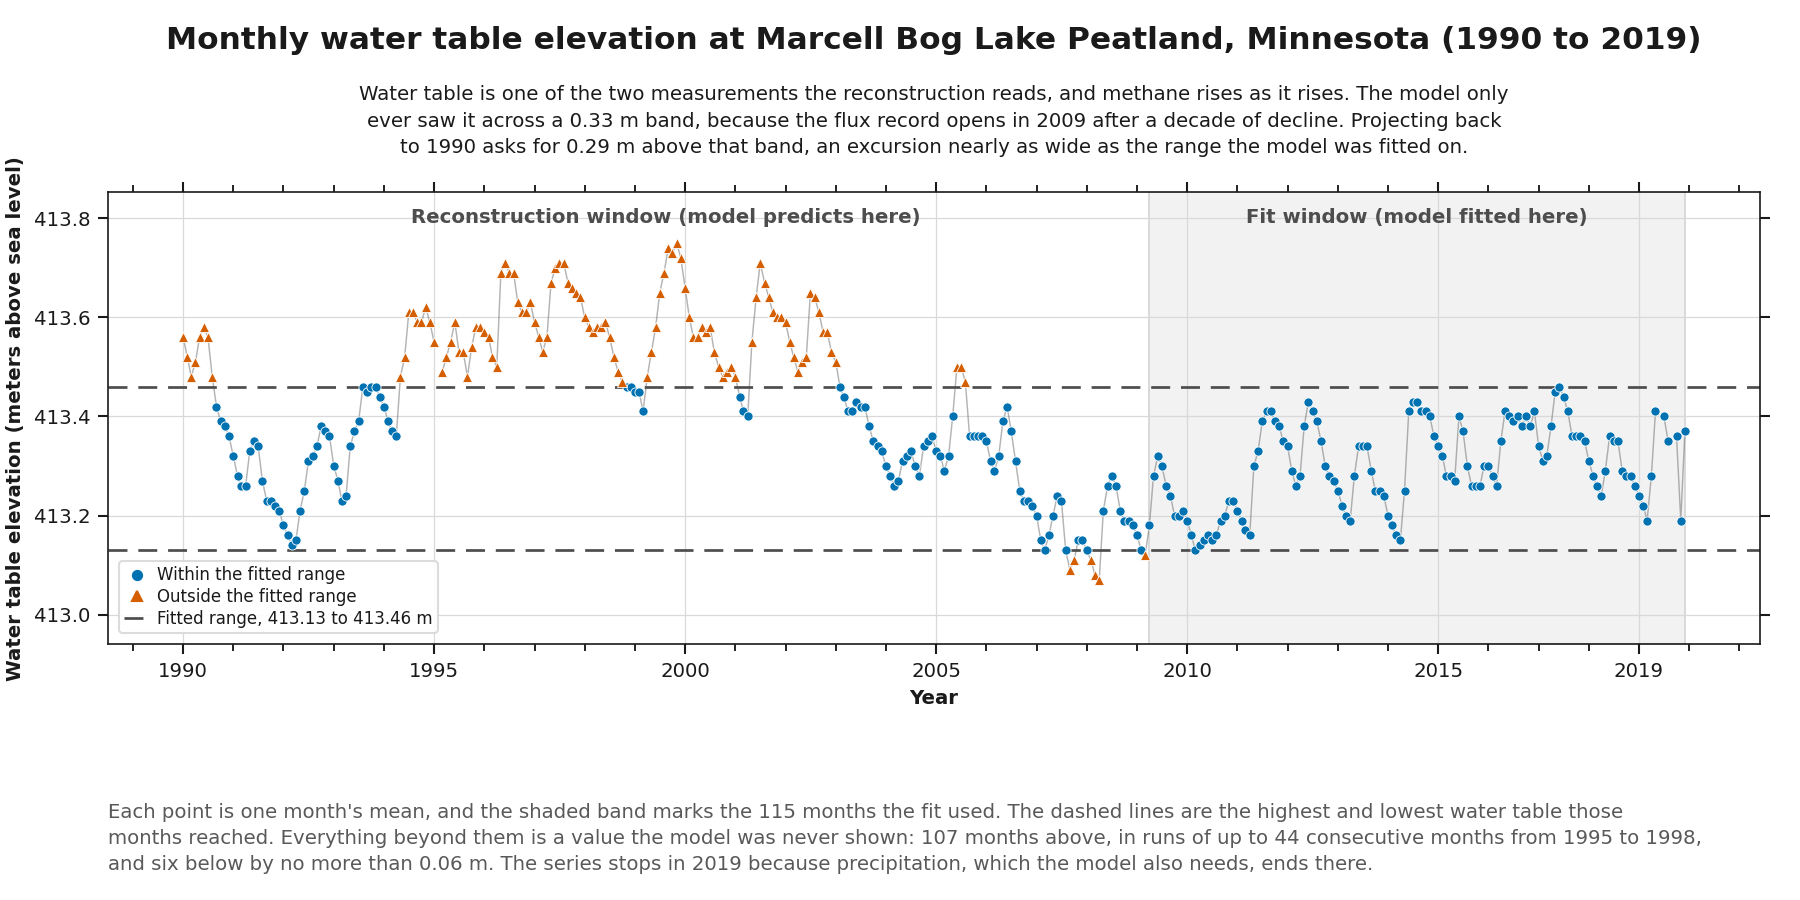
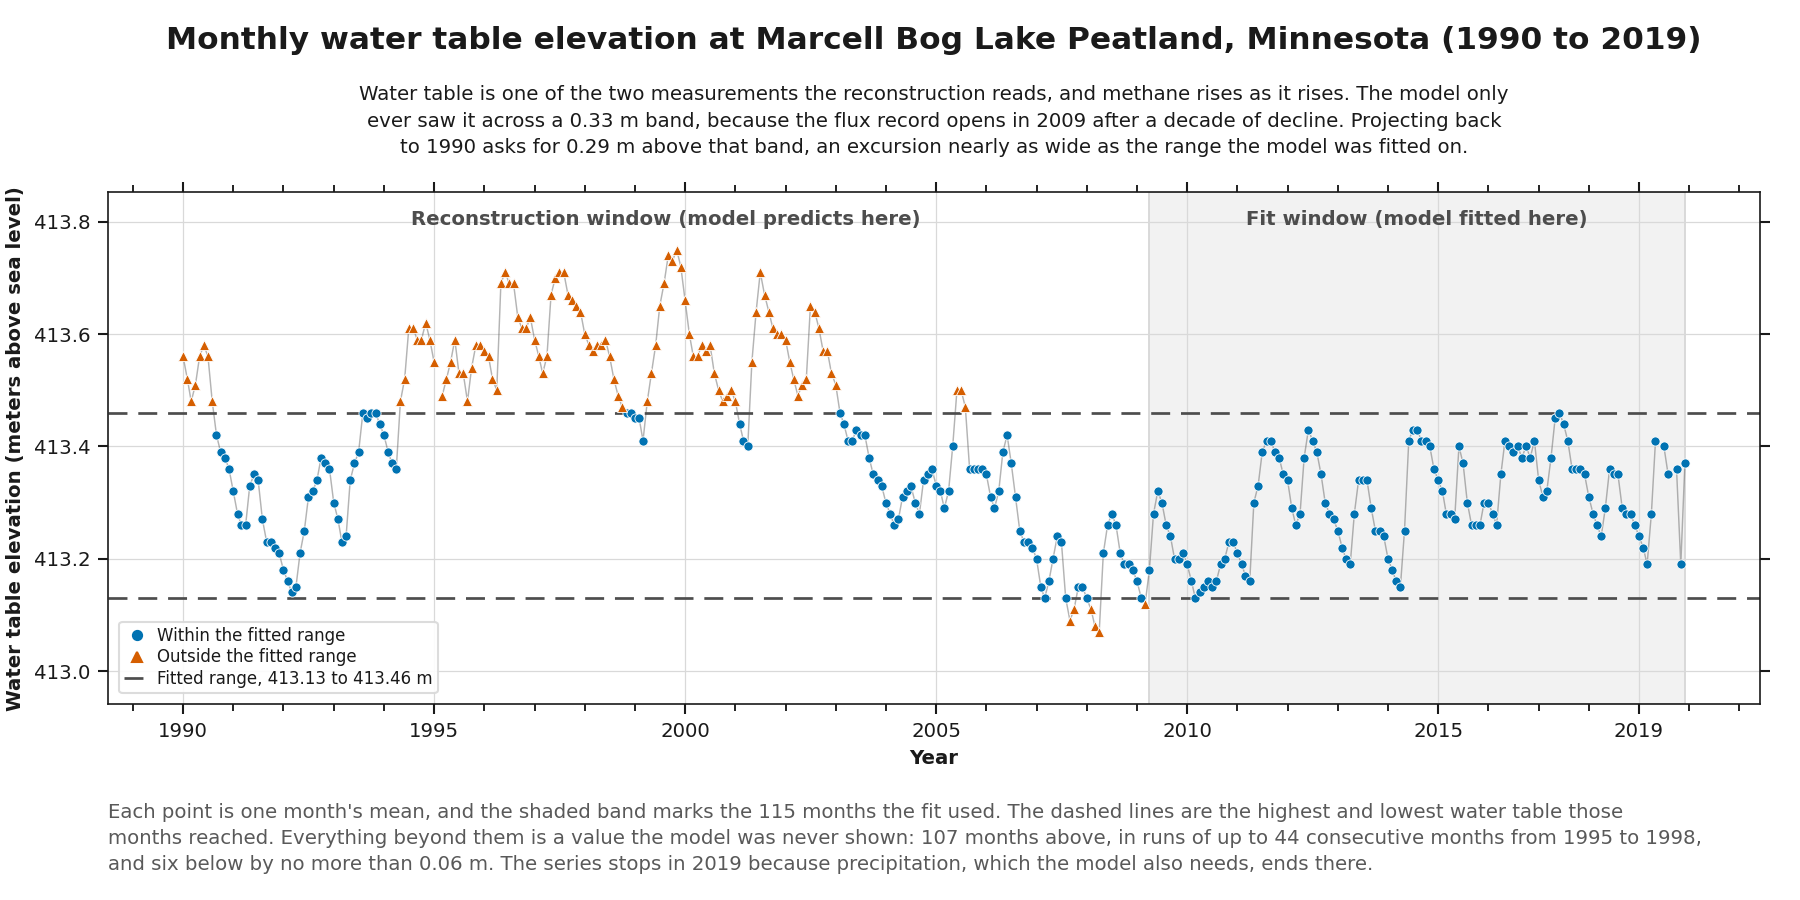
Sit the drawing block evenly between its two text blocks
The gap below the panel read 95.5 px against 35.1 above. The obvious fix is in
exact opposition to the previous one: moving the description up by the 60.4 px
that would equalise puts its last line 86.4 px from the canvas bottom, which is
the uneven margin just removed, one pixel for one pixel.

The panel is the third term and the one with room. Growing it downward into the
rows the description does not use closes the gap without moving the description
at all. Both gaps are now 35.06 px, the bottom margin stays at 26, and the panel
gains 60.4 px, 451.6 to 512.0.

balance_drawing_block measures both gaps once everything is drawn and expands
the block into whichever is larger, so the panel only ever grows. The fixed
description block still protects what it exists to protect: it is still 156 px,
and the case it guards against, a description filling all five lines, is
untouched. Rows the text does not use simply stop being a reservation to defend.

The imbalance runs both ways, which is why the helper expands rather than
shifts. A five-line description leaves 12 px unused and its below gap falls to
about 22 against 35 above, so the block would grow upward there instead. Applied
to this figure alone for now, since the rest should be seen as the pass reaches
them.

diff --git a/src/study/plotstyle.py b/src/study/plotstyle.py
@@ -520,6 +520,43 @@ def canvas_area(text: FigureText, size: str = "wide", extra_left_px: int = 0,
     return fig, (left, axes_bottom, right - left, axes_top - axes_bottom)
 
 
+def balance_drawing_block(fig: Figure, ax: plt.Axes) -> None:
+    """Give the drawing block the same air above it as below it.
+
+    The gap above is what the title and subtitle blocks leave; the gap below is
+    what the description block leaves once its text is set from the floor. The
+    two rarely match, and they miss in both directions: a three-line
+    description leaves 70 px of its block unused and the panel floats high, a
+    five-line one leaves 12 px and the panel sits low against its own axis
+    label.
+
+    The block expands into whichever gap is larger until the two agree, so the
+    panel only ever grows. That is the point: the fixed description block exists
+    so text cannot steal drawing space, and the worst case it protects against,
+    a description filling all five lines, is left exactly as it was. Rows the
+    text does not use are not a reservation to defend, and the panel claims
+    them.
+
+    Call after everything else is drawn on the axes, since the lower gap is
+    measured to the tick labels and axis title rather than the frame.
+    """
+    fig.canvas.draw()
+    renderer = fig.canvas.get_renderer()
+    height_px = fig.get_size_inches()[1] * fig.dpi
+    subtitle, description = fig.texts[1], fig.texts[2]
+    frame = ax.get_window_extent(renderer)
+    furniture = ax.get_tightbbox(renderer)
+    above = subtitle.get_window_extent(renderer).y0 - frame.y1
+    below = furniture.y0 - description.get_window_extent(renderer).y1
+    box = ax.get_position()
+    if below > above:
+        grow = (below - above) / height_px
+        ax.set_position((box.x0, box.y0 - grow, box.width, box.height + grow))
+    elif above > below:
+        grow = (above - below) / height_px
+        ax.set_position((box.x0, box.y0, box.width, box.height + grow))
+
+
 def canvas(text: FigureText, size: str = "wide") -> tuple[Figure, plt.Axes]:
     """A figure with its text blocks and a single drawing area."""
     fig, rect = canvas_area(text, size)

diff --git a/src/study/figures.py b/src/study/figures.py
@@ -127,6 +127,7 @@ def water_table_support(
               labelspacing=0.22, handlelength=1.5, handletextpad=0.46,
               borderaxespad=0.68)
 
+    ps.balance_drawing_block(fig, ax)
     return fig
 
 

diff --git a/notes/study.md b/notes/study.md
@@ -1005,6 +1005,38 @@ Vector output is not produced. These are read in a README, which will not displa
 one, and every figure is regenerable from its function if a document ever needs
 one.
 
+## The drawing block sits evenly between its two text blocks
+
+Setting the description from the floor of its block evened the canvas margins
+and moved the slack to where the eye meets it next: between the axis label and
+the caption. On the water table figure that gap read 95.5 px against 35.1 px
+above the panel.
+
+The obvious fix and the previous one are in exact opposition. Moving the
+description up by the 60.4 px that would equalise puts its last line 86.4 px
+from the canvas bottom, which is the uneven margin just removed, one pixel for
+one pixel. Nothing is gained by trading them.
+
+The panel is the third term, and it is the one with room. Growing the drawing
+block downward into the rows the description does not use closes the gap without
+moving the description at all: both gaps are now 35.06 px, the bottom margin
+stays 26, and the panel gains 60.4 px, 451.6 to 512.0.
+
+`balance_drawing_block` measures both gaps after everything is drawn and expands
+the block into whichever is larger, so the panel only ever grows. This does not
+weaken what the fixed block protects. The block is still 156 px. The case it
+exists for, a description filling all five lines, is left exactly as it was, and
+no figure loses drawing area to text. What changes is that rows the text does
+not use stop being a reservation to defend.
+
+The imbalance runs both ways across the set, which is why the helper expands
+rather than shifts. A three-line description leaves 70 px of its block unused
+and the panel floats high above its own axis label; a five-line one leaves 12 px
+and the below gap falls to about 22 px against 35 above, so the block grows
+upward instead and the subtitle clearance closes to about 22 px. Applied to the
+water table figure only so far, since each remaining figure should be looked at
+as the pass reaches it.
+
 ## The description sets from the floor of its block
 
 Every figure looked unevenly bounded: 26 px of air above the title and between
